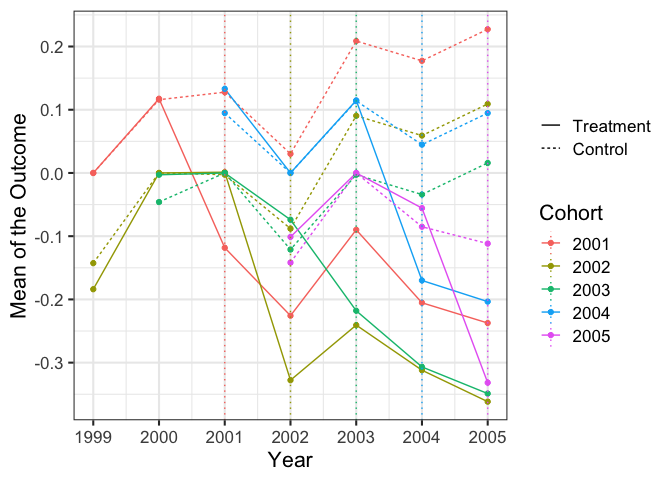
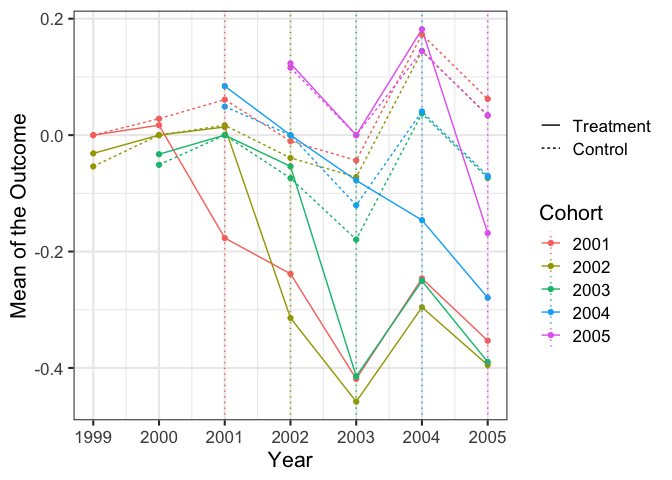
Minor edits to README

diff --git a/README.md b/README.md
@@ -16,7 +16,7 @@ Overview
 
 -   It maximizes sample size by using a "stacked" approach to match all possible control observations to any given treatment observation at any event time;
 -   It allows the estimated treatment effects to vary over time and by treatment cohort. It can also impose a common treatment effect across cohorts (extending results by Abraham & Sun, 2018);
--   It has built-in tools to correct for anticipation (extending results by Fadlon & Nielsen, 2019) and deviations from parallel trends (either using covariate balancing in the spirit of Abadie, 2003, or modeling parametric deviations from parallel trends).
+-   It has built-in tools to correct for anticipation (extending results by Fadlon & Nielsen, 2019) and deviations from parallel trends (either using covariate balancing in the spirit of Abadie, 2005, or modeling parametric deviations from parallel trends).
 
 ### Installation
 
@@ -45,11 +45,11 @@ These required arguments simply supply `ES` your data and tell `ES` the names of
 These optional arguments allow you to customize `ES` to deal with issues like anticipation and non-parallel trends:
 
 -   `omitted_event_time`: This lets you decide the pre-treatment event time to use as the reference year. It must be an integer that is less than or equal to `-1`. The default is `-2`.
--   `min_control_gap` and `max_control_gap`: `min_control_gap` is the minimum number of time periods ahead that a cohort must receive treatment in order to be included in the control group (e.g., Fadlon & Nielsen, 2018, use `min_control_gap=5`). It must be an integer that is at least `1`. The default is `1`. `max_control_gap` is similar but for the maximum number of time periods ahead (e.g., Fadlon & Nielsen, 2018, also use `max_control_gap=5`). It must be an integer that is at least as large as `min_control_gap`. The default is `Inf`.
+-   `min_control_gap` and `max_control_gap`: `min_control_gap` is the minimum number of time periods ahead that a cohort must receive treatment in order to be included in the control group (e.g., Fadlon & Nielsen, 2019, use `min_control_gap=5`). It must be an integer that is at least `1`. The default is `1`. `max_control_gap` is similar but for the maximum number of time periods ahead (e.g., Fadlon & Nielsen, 2019, also use `max_control_gap=5`). It must be an integer that is at least as large as `min_control_gap`. The default is `Inf`.
 -   `control_subset_var` and `control_subset_event_time`: These variables allow one to require that the control group satisfies a logical condition at a given event time. `control_subset_var` must be the name of a logical variable in the data (all values of this variable are `TRUE` or `FALSE`) and `control_subset_event_time` is an integer which specifies the event time at which the control group must have a value of `TRUE` on `control_subset_var`. The default is `control_subset_var=NA`, which bypasses this option.
--   `fill_zeros`: `fill_zeros` is a logical indicator (`TRUE` or `FALSE`) which results in the data being filled and the outcome set to zero for all observations on a unit that are missing within the time frame included in the data.
--   `linearize_pretrends`: `linearize_pretrends` is a logical indicator that, when set to `TRUE`, results in linear pre-trends being fit separately for the treatment and control group during the pre-event years, and then residualized out of both the pre-event and post-event outcomes.
--   `residualize_covariates`: Like `linearize_pretrends`, but it residualizes on provided covariates rather than time. Either `discrete_covars` (discrete covariates) or `cont_covars` (continuous covariates) or both must be specified as `character vectors` of variable names. Discrete covariates will be residualized using fixed effects, while continuous covariates will be residualized linearly.
+-   `fill_zeros`: `fill_zeros` is a logical indicator (`TRUE` or `FALSE`) which results in the data being filled and the outcome set to zero for all observations on a unit that are missing within the time frame included in the data. The default is `FALSE`.
+-   `linearize_pretrends`: `linearize_pretrends` is a logical indicator that, when set to `TRUE`, results in linear pre-trends being fit during the pre-event years, and then residualized out of both the pre-event and post-event outcomes. The default is `FALSE`.
+-   `residualize_covariates`: Like `linearize_pretrends`, but it residualizes on provided covariates rather than time. Either `discrete_covars` (discrete covariates) or `cont_covars` (continuous covariates) or both must be specified as `character vectors` of variable names. Discrete covariates will be residualized using fixed effects, while continuous covariates will be residualized linearly. The default is `FALSE`.
 
 ### Plotting the results from `ES`
 
@@ -82,17 +82,17 @@ sim_data[]
 ```
 
     ##       individual year treatment_year   outcome
-    ##    1:          1 1999           2004 0.6637572
-    ##    2:          1 2000           2004 0.2950501
-    ##    3:          1 2001           2004 0.9890768
-    ##    4:          1 2002           2004 0.2334075
-    ##    5:          1 2003           2004 0.6467621
+    ##    1:          1 1999           2003 0.8623693
+    ##    2:          1 2000           2003 0.5465576
+    ##    3:          1 2001           2003 0.7729240
+    ##    4:          1 2002           2003 0.8747746
+    ##    5:          1 2003           2003 0.4526766
     ##   ---                                         
-    ## 6996:       1000 2001           2004 0.5687820
-    ## 6997:       1000 2002           2004 0.7370530
-    ## 6998:       1000 2003           2004 0.8072028
-    ## 6999:       1000 2004           2004 0.5591011
-    ## 7000:       1000 2005           2004 0.2568518
+    ## 6996:       1000 2001           2002 0.7347018
+    ## 6997:       1000 2002           2002 0.4348880
+    ## 6998:       1000 2003           2002 0.1514518
+    ## 6999:       1000 2004           2002 0.7354693
+    ## 7000:       1000 2005           2002 0.4444197
 
 In this data, the treatment is received in the year given by the `treatment_year` variable. The other variables are `individual`, `year`, and `outcome`. We wish to perform an event study to understand the effect of this treatment on this outcome.
 
@@ -124,12 +124,12 @@ results <- ES(long_data=sim_data, outcomevar="outcome",
     ## Warning in as.POSIXlt.POSIXct(x, tz): unknown timezone 'zone/tz/2018i.1.0/
     ## zoneinfo/America/Chicago'
 
-    ## INFO [2019-01-24 17:30:37] Beginning ES.
-    ## INFO [2019-01-24 17:30:37] Beginning data stacking.
-    ## INFO [2019-01-24 17:30:47] Successfully produced a stacked dataset.
-    ## INFO [2019-01-24 17:30:48] Estimated heterogeneous case with OLS.
-    ## INFO [2019-01-24 17:30:48] Estimated homogeneous case with OLS.
-    ## INFO [2019-01-24 17:30:48] ES is finished.
+    ## INFO [2019-01-24 18:19:56] Beginning ES.
+    ## INFO [2019-01-24 18:19:56] Beginning data stacking.
+    ## INFO [2019-01-24 18:20:07] Successfully produced a stacked dataset.
+    ## INFO [2019-01-24 18:20:07] Estimated heterogeneous case with OLS.
+    ## INFO [2019-01-24 18:20:08] Estimated homogeneous case with OLS.
+    ## INFO [2019-01-24 18:20:08] ES is finished.
 
 ### Example 2. Estimation using only control cohorts that receive treatment at certain times in the future
 
@@ -143,12 +143,12 @@ results2 <- ES(long_data=sim_data, outcomevar="outcome",
                min_control_gap = 3, max_control_gap = 5)
 ```
 
-    ## INFO [2019-01-24 17:30:48] Beginning ES.
-    ## INFO [2019-01-24 17:30:48] Beginning data stacking.
-    ## INFO [2019-01-24 17:30:53] Successfully produced a stacked dataset.
-    ## INFO [2019-01-24 17:30:54] Estimated heterogeneous case with OLS.
-    ## INFO [2019-01-24 17:30:54] Estimated homogeneous case with OLS.
-    ## INFO [2019-01-24 17:30:54] ES is finished.
+    ## INFO [2019-01-24 18:20:08] Beginning ES.
+    ## INFO [2019-01-24 18:20:08] Beginning data stacking.
+    ## INFO [2019-01-24 18:20:13] Successfully produced a stacked dataset.
+    ## INFO [2019-01-24 18:20:13] Estimated heterogeneous case with OLS.
+    ## INFO [2019-01-24 18:20:13] Estimated homogeneous case with OLS.
+    ## INFO [2019-01-24 18:20:13] ES is finished.
 
 ### Example 3. Estimation using only control cohorts that satisfy a condition at an event time
 
@@ -169,12 +169,12 @@ results3 <- ES(long_data=sim_data, outcomevar="outcome",
                control_subset_var="valid_control", control_subset_event_time=-1)
 ```
 
-    ## INFO [2019-01-24 17:30:54] Beginning ES.
-    ## INFO [2019-01-24 17:30:54] Beginning data stacking.
-    ## INFO [2019-01-24 17:31:04] Successfully produced a stacked dataset.
-    ## INFO [2019-01-24 17:31:05] Estimated heterogeneous case with OLS.
-    ## INFO [2019-01-24 17:31:05] Estimated homogeneous case with OLS.
-    ## INFO [2019-01-24 17:31:05] ES is finished.
+    ## INFO [2019-01-24 18:20:13] Beginning ES.
+    ## INFO [2019-01-24 18:20:13] Beginning data stacking.
+    ## INFO [2019-01-24 18:20:25] Successfully produced a stacked dataset.
+    ## INFO [2019-01-24 18:20:25] Estimated heterogeneous case with OLS.
+    ## INFO [2019-01-24 18:20:25] Estimated homogeneous case with OLS.
+    ## INFO [2019-01-24 18:20:25] ES is finished.
 
 ### Example 4. Removing linear deviations from parallel trends
 
@@ -188,13 +188,13 @@ results4 <- ES(long_data=sim_data, outcomevar="outcome",
                linearize_pretrends = TRUE)
 ```
 
-    ## INFO [2019-01-24 17:31:05] Beginning ES.
-    ## INFO [2019-01-24 17:31:05] Linearizing pre-trends.
-    ## INFO [2019-01-24 17:31:05] Beginning data stacking.
-    ## INFO [2019-01-24 17:31:16] Successfully produced a stacked dataset.
-    ## INFO [2019-01-24 17:31:17] Estimated heterogeneous case with OLS.
-    ## INFO [2019-01-24 17:31:17] Estimated homogeneous case with OLS.
-    ## INFO [2019-01-24 17:31:17] ES is finished.
+    ## INFO [2019-01-24 18:20:25] Beginning ES.
+    ## INFO [2019-01-24 18:20:25] Linearizing pre-trends.
+    ## INFO [2019-01-24 18:20:26] Beginning data stacking.
+    ## INFO [2019-01-24 18:20:37] Successfully produced a stacked dataset.
+    ## INFO [2019-01-24 18:20:38] Estimated heterogeneous case with OLS.
+    ## INFO [2019-01-24 18:20:38] Estimated homogeneous case with OLS.
+    ## INFO [2019-01-24 18:20:38] ES is finished.
 
 ### Example 5. Residualzing on covariates where some are discrete and some are continuous
 
@@ -222,13 +222,13 @@ results5 <- ES(long_data=sim_data, outcomevar="outcome",
                cont_covars = c('cont_covar1','cont_covar2'))
 ```
 
-    ## INFO [2019-01-24 17:31:17] Beginning ES.
-    ## INFO [2019-01-24 17:31:17] Residualizing on covariates.
-    ## INFO [2019-01-24 17:31:18] Beginning data stacking.
-    ## INFO [2019-01-24 17:31:28] Successfully produced a stacked dataset.
-    ## INFO [2019-01-24 17:31:29] Estimated heterogeneous case with OLS.
-    ## INFO [2019-01-24 17:31:29] Estimated homogeneous case with OLS.
-    ## INFO [2019-01-24 17:31:29] ES is finished.
+    ## INFO [2019-01-24 18:20:38] Beginning ES.
+    ## INFO [2019-01-24 18:20:38] Residualizing on covariates.
+    ## INFO [2019-01-24 18:20:39] Beginning data stacking.
+    ## INFO [2019-01-24 18:20:49] Successfully produced a stacked dataset.
+    ## INFO [2019-01-24 18:20:50] Estimated heterogeneous case with OLS.
+    ## INFO [2019-01-24 18:20:50] Estimated homogeneous case with OLS.
+    ## INFO [2019-01-24 18:20:50] ES is finished.
 
 ### Example 6. Filling in missing rows with zeros.
 
@@ -248,13 +248,15 @@ results6 <- ES(long_data=sim_data, outcomevar="outcome",
                fill_zeros = TRUE)
 ```
 
-    ## INFO [2019-01-24 17:31:29] Beginning ES.
-    ## INFO [2019-01-24 17:31:29] Filling in zeros.
-    ## INFO [2019-01-24 17:31:29] Beginning data stacking.
-    ## INFO [2019-01-24 17:31:40] Successfully produced a stacked dataset.
-    ## INFO [2019-01-24 17:31:40] Estimated heterogeneous case with OLS.
-    ## INFO [2019-01-24 17:31:41] Estimated homogeneous case with OLS.
-    ## INFO [2019-01-24 17:31:41] ES is finished.
+    ## INFO [2019-01-24 18:20:50] Beginning ES.
+    ## INFO [2019-01-24 18:20:50] Filling in zeros.
+    ## INFO [2019-01-24 18:20:51] Beginning data stacking.
+    ## INFO [2019-01-24 18:21:01] Successfully produced a stacked dataset.
+    ## INFO [2019-01-24 18:21:01] Estimated heterogeneous case with OLS.
+    ## INFO [2019-01-24 18:21:02] Estimated homogeneous case with OLS.
+    ## INFO [2019-01-24 18:21:02] ES is finished.
+
+Note: This cannot be combined with residualizing on covariates, since ES would need to know how to fill in the covariates during the years that observations are missing.
 
 ### Bonus Example. Plotting the results from `ES`
 
